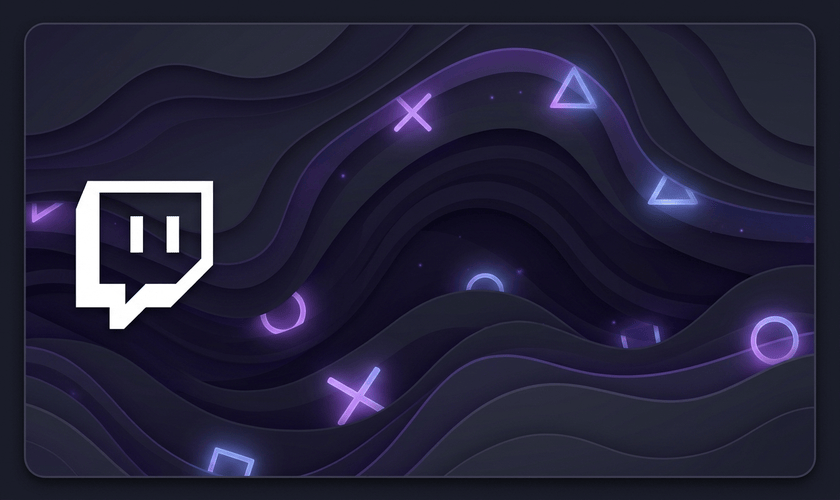
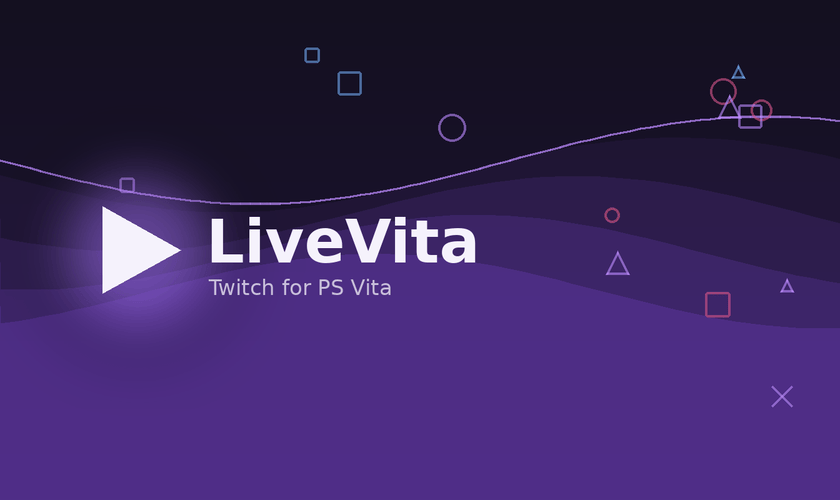
branding: use original generated artwork; revert app/VPK name to LiveVita
- Replace icon0/bg/startup with the original, self-made purple play-mark set
  (no Twitch logo or third-party assets), resized to the LiveArea slots and
  quantized to palette PNG.
- Revert VITA_APP_NAME and the VPK output back to LiveVita (LiveVita.vpk);
  workflow artifact, build scripts and README restored to the LiveVita name.
  TITLE_ID and data path unchanged.

Claude-Session: https://claude.ai/code/session_01Mrkm24GfdXu5dMRvgib6RQ

diff --git a/README.md b/README.md
@@ -55,18 +55,18 @@ LiveVita does **not** implement any ad-removal proxy, and never will. The ad-fre
    - The first time, it offers to install WSL, Microsoft's free Ubuntu-inside-Windows. Say yes, restart your PC, set a Linux username and password when Ubuntu opens, then run the .bat again.
    - Paste your Client ID when it asks (right-click pastes). It's remembered for next time.
    - The first build also downloads the Vita build tools (10-20 minutes). Later builds take 1-2 minutes.
-3. When it finishes, File Explorer opens with **Twitch.vpk** selected.
+3. When it finishes, File Explorer opens with **LiveVita.vpk** selected.
 
 ### Option B: on GitHub (nothing to install)
 
 1. Create a free account at <https://github.com> and a **New repository**.
 2. Upload this whole folder, including the `.github` folder. On a Mac, press Cmd+Shift+. in Finder to see it.
 3. Optional: **Settings → Secrets and variables → Actions → Variables → New repository variable**, with name `TWITCH_CLIENT_ID` and your Client ID as the value.
-4. **Actions → Build VPK → Run workflow**. After about 5 minutes, download **Twitch-vpk** from the finished run.
+4. **Actions → Build VPK → Run workflow**. After about 5 minutes, download **LiveVita-vpk** from the finished run.
 
 ## 3. Install and run
 
-1. Copy `Twitch.vpk` to your Vita (VitaShell over USB or FTP) and install it from VitaShell.
+1. Copy `LiveVita.vpk` to your Vita (VitaShell over USB or FTP) and install it from VitaShell.
 2. If the Client ID isn't built in, create `ux0:data/LiveVita/client_id.txt` containing only the Client ID.
 3. Start LiveVita, select **Log In**, and enter the code it shows at twitch.tv/activate.
 
